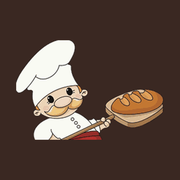
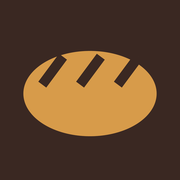
Cambiar el icono de pestana por un pan, que si lee a 16 px
La mascota entera son diez formas y a 16 px se apelmazaban. El pan es una
sola forma en dos colores, ambar sobre el marron de marca: los mismos dos
tonos que ya dominan el sitio. Se descarta la canasta porque en el sitio
esa palabra ya significa el carrito.

diff --git a/index.html b/index.html
@@ -21,10 +21,10 @@
   <meta name="twitter:description" content="Pan recién horneado, pasteles y dulces hechos como antes.">
   <meta name="twitter:image" content="https://images.unsplash.com/photo-1636378126357-7e5f200771c5?auto=format&amp;fit=crop&amp;w=1200&amp;q=85">
   <title>El Tradicional | Panadería &amp; Pastelería</title>
-  <link rel="icon" href="favicon.ico?v=mascota-20260925" sizes="any">
-  <link rel="icon" type="image/png" sizes="32x32" href="favicon-32.png?v=mascota-20260925">
-  <link rel="icon" type="image/png" sizes="192x192" href="favicon-192.png?v=mascota-20260925">
-  <link rel="apple-touch-icon" href="apple-touch-icon.png?v=mascota-20260925">
+  <link rel="icon" href="favicon.ico?v=pan-20260925" sizes="any">
+  <link rel="icon" type="image/png" sizes="32x32" href="favicon-32.png?v=pan-20260925">
+  <link rel="icon" type="image/png" sizes="192x192" href="favicon-192.png?v=pan-20260925">
+  <link rel="apple-touch-icon" href="apple-touch-icon.png?v=pan-20260925">
   <link rel="stylesheet" href="styles.css?v=pie4-20260924">
   <script type="application/ld+json">
   {
